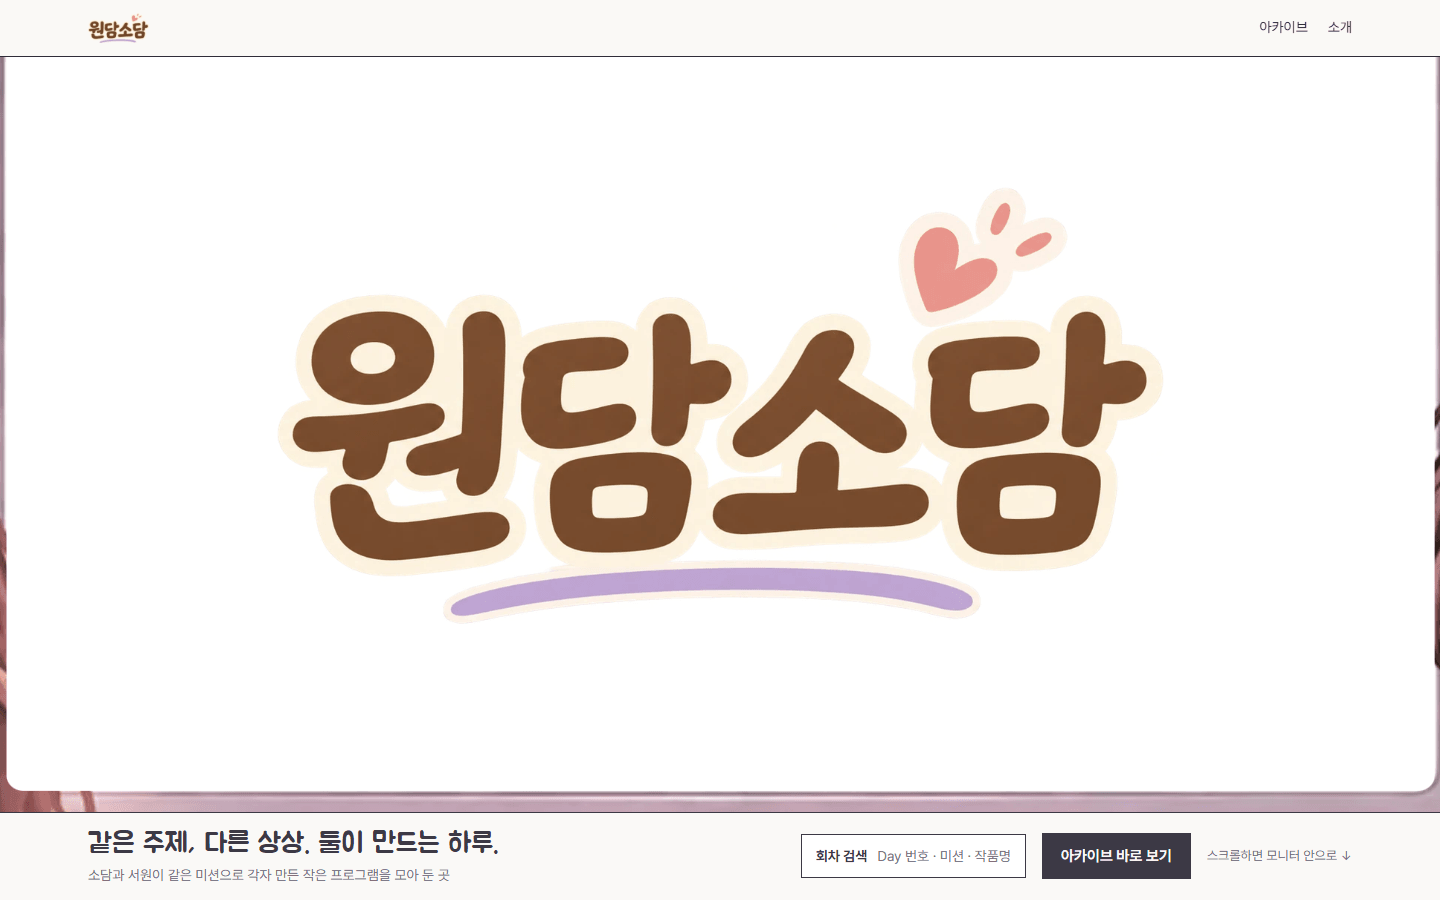
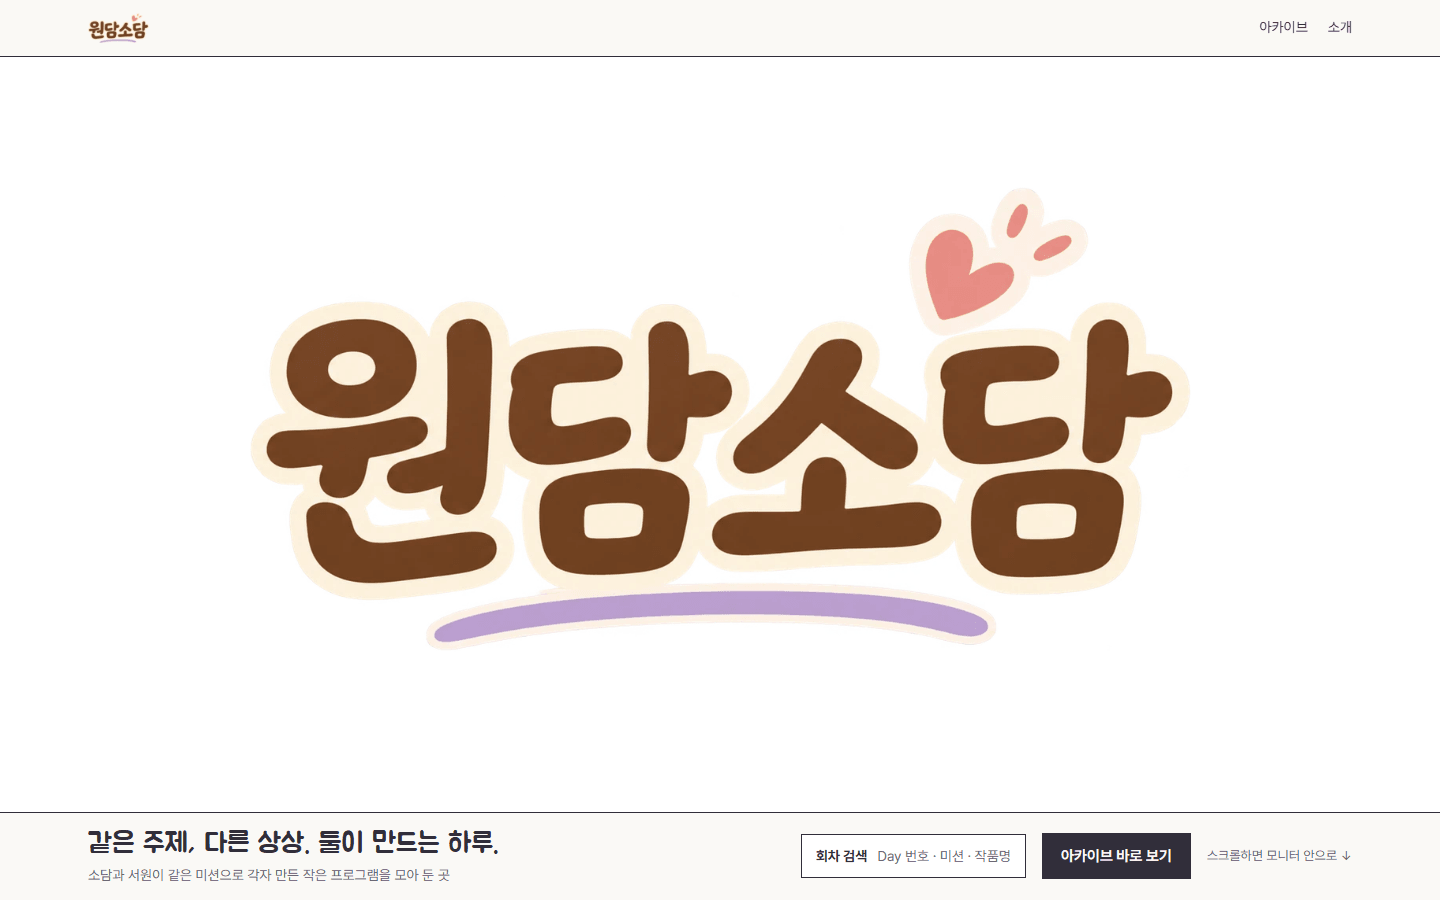
흰 화면 전환 뒤 검색 배너가 확대 상태에서 제자리로 줌아웃되며 회차 검색 화면으로 이어지도록 변경

diff --git a/workspaces/archive-site/src/components/intro/intro-controller.ts b/workspaces/archive-site/src/components/intro/intro-controller.ts
@@ -1,10 +1,20 @@
 // 인트로 스크롤 줌 컨트롤러
-// - 강제 스크롤 잠금 없음. 스크롤 진행도(0→1)에 따라 모니터 화면(로고)이 화면 전체를 덮도록 확대하고,
-//   끝부분에서 흰색으로 완전히 전환한다. 이후 일반 스크롤로 아래 회차 검색 화면이 올라온다.
+// - 강제 스크롤 잠금 없음. 스크롤 진행도(0→1)에 따라:
+//   0.00–0.42  모니터 화면(로고)이 화면 전체를 덮도록 확대
+//   0.30–0.46  흰색으로 전환
+//   0.44–0.54  회차 검색 배너가 크게 확대된 상태(그림 속 검색창이 화면 가운데)로 흰 화면 위에 나타남
+//   0.46–0.90  배너가 줌아웃되며 아래 아카이브의 실제 배너 자리로 들어감 (매 프레임 실제 위치를 따라감)
+//   0.90–1.00  인트로 전체가 사라지며 같은 자리의 실제 배너와 검색창이 드러남 → 이후 일반 스크롤
 // - 모션 감소 설정이거나 오류가 나면 확대 없이 정지 화면으로 남고, 아래 HTML 아카이브/검색은 그대로 동작한다.
 
 const easeInOut = (t: number) => (t < 0.5 ? 4 * t * t * t : 1 - Math.pow(-2 * t + 2, 3) / 2);
 const clamp01 = (v: number) => Math.min(1, Math.max(0, v));
+const range = (p: number, a: number, b: number) => clamp01((p - a) / (b - a));
+
+// 배너 원본(1672×941) 속 검색창 중심 — Archive.astro 의 .search-banner-hit 과 같은 위치
+const FOCUS = { x: 0.5, y: 0.288 };
+// 줌아웃 시작 배율: 배너가 화면 폭의 몇 배인 상태에서 시작할지 (폭 기준 — 세로 화면에서 과하게 커지지 않게)
+const REVEAL_START = 2.3;
 
 export function startIntro() {
   const root = document.querySelector<HTMLElement>('[data-intro]');
@@ -15,6 +25,7 @@ export function startIntro() {
     setupZoom(root);
   } catch (err) {
     delete root.dataset.zoomable;
+    delete root.dataset.done;
     console.warn('[intro] fallback to static scene', err);
   }
 }
@@ -24,7 +35,10 @@ function setupZoom(root: HTMLElement) {
   const viewport = root.querySelector<HTMLElement>('[data-viewport]')!;
   const screen = root.querySelector<HTMLElement>('[data-screen]')!;
   const whiteout = root.querySelector<HTMLElement>('[data-whiteout]')!;
+  const reveal = root.querySelector<HTMLElement>('[data-reveal]')!;
+  const target = document.querySelector<HTMLElement>('.search-banner img');
   const sticky = viewport.parentElement!;
+  if (!zoomer || !screen || !whiteout || !reveal) throw new Error('intro markup missing');
 
   let C = { x: 0, y: 0 }; // 모니터 화면 중심 (뷰포트 좌표)
   let V = { x: 0, y: 0 }; // 뷰포트 중심
@@ -52,10 +66,35 @@ function setupZoom(root: HTMLElement) {
     return clamp01((headerH - root.getBoundingClientRect().top) / run);
   }
 
+  function updateReveal(p: number) {
+    const a = range(p, 0.44, 0.54);
+    reveal.style.opacity = a.toFixed(3);
+    if (!target || a === 0) return;
+    // 실제 배너의 지금 위치(sticky 기준) — 줌아웃이 끝나면 이 자리에 정확히 겹친다
+    const st = sticky.getBoundingClientRect();
+    const tr = target.getBoundingClientRect();
+    if (!tr.width || !tr.height) return;
+    const R = { x: tr.left - st.left, y: tr.top - st.top, w: tr.width, h: tr.height };
+    reveal.style.left = `${R.x}px`;
+    reveal.style.top = `${R.y}px`;
+    reveal.style.width = `${R.w}px`;
+    reveal.style.height = `${R.h}px`;
+
+    const z0 = (st.width / R.w) * REVEAL_START;
+    const e = easeInOut(range(p, 0.46, 0.9));
+    const z = z0 + (1 - z0) * e;
+    // 검색창 중심 F 가 처음엔 화면 가운데, 끝엔 제자리에 오도록 (transform-origin 0 0 기준)
+    const fx = R.w * FOCUS.x;
+    const fy = R.h * FOCUS.y;
+    const cx = st.width / 2 + (R.x + fx - st.width / 2) * e;
+    const cy = st.height / 2 + (R.y + fy - st.height / 2) * e;
+    reveal.style.transform = `translate(${(cx - R.x - z * fx).toFixed(2)}px, ${(cy - R.y - z * fy).toFixed(2)}px) scale(${z.toFixed(4)})`;
+  }
+
   function update() {
     ticking = false;
     const p = progress();
-    const e = easeInOut(clamp01(p / 0.72));
+    const e = easeInOut(clamp01(p / 0.42));
     const z = 1 + (S - 1) * e;
     // 화면 중심 C 가 뷰포트 중심 V 로 이동하면서 확대 (transform-origin 0 0 기준)
     const cx = C.x + (V.x - C.x) * e;
@@ -63,7 +102,11 @@ function setupZoom(root: HTMLElement) {
     zoomer.style.setProperty('--zoom', z.toFixed(4));
     zoomer.style.setProperty('--tx', `${(cx - z * C.x).toFixed(2)}px`);
     zoomer.style.setProperty('--ty', `${(cy - z * C.y).toFixed(2)}px`);
-    whiteout.style.setProperty('--white', clamp01((p - 0.45) / 0.3).toFixed(3));
+    whiteout.style.setProperty('--white', range(p, 0.3, 0.46).toFixed(3));
+    updateReveal(p);
+    sticky.style.setProperty('--fade', (1 - range(p, 0.9, 0.995)).toFixed(3));
+    if (p >= 0.995) root.dataset.done = '';
+    else delete root.dataset.done;
   }
 
   const onScroll = () => {
